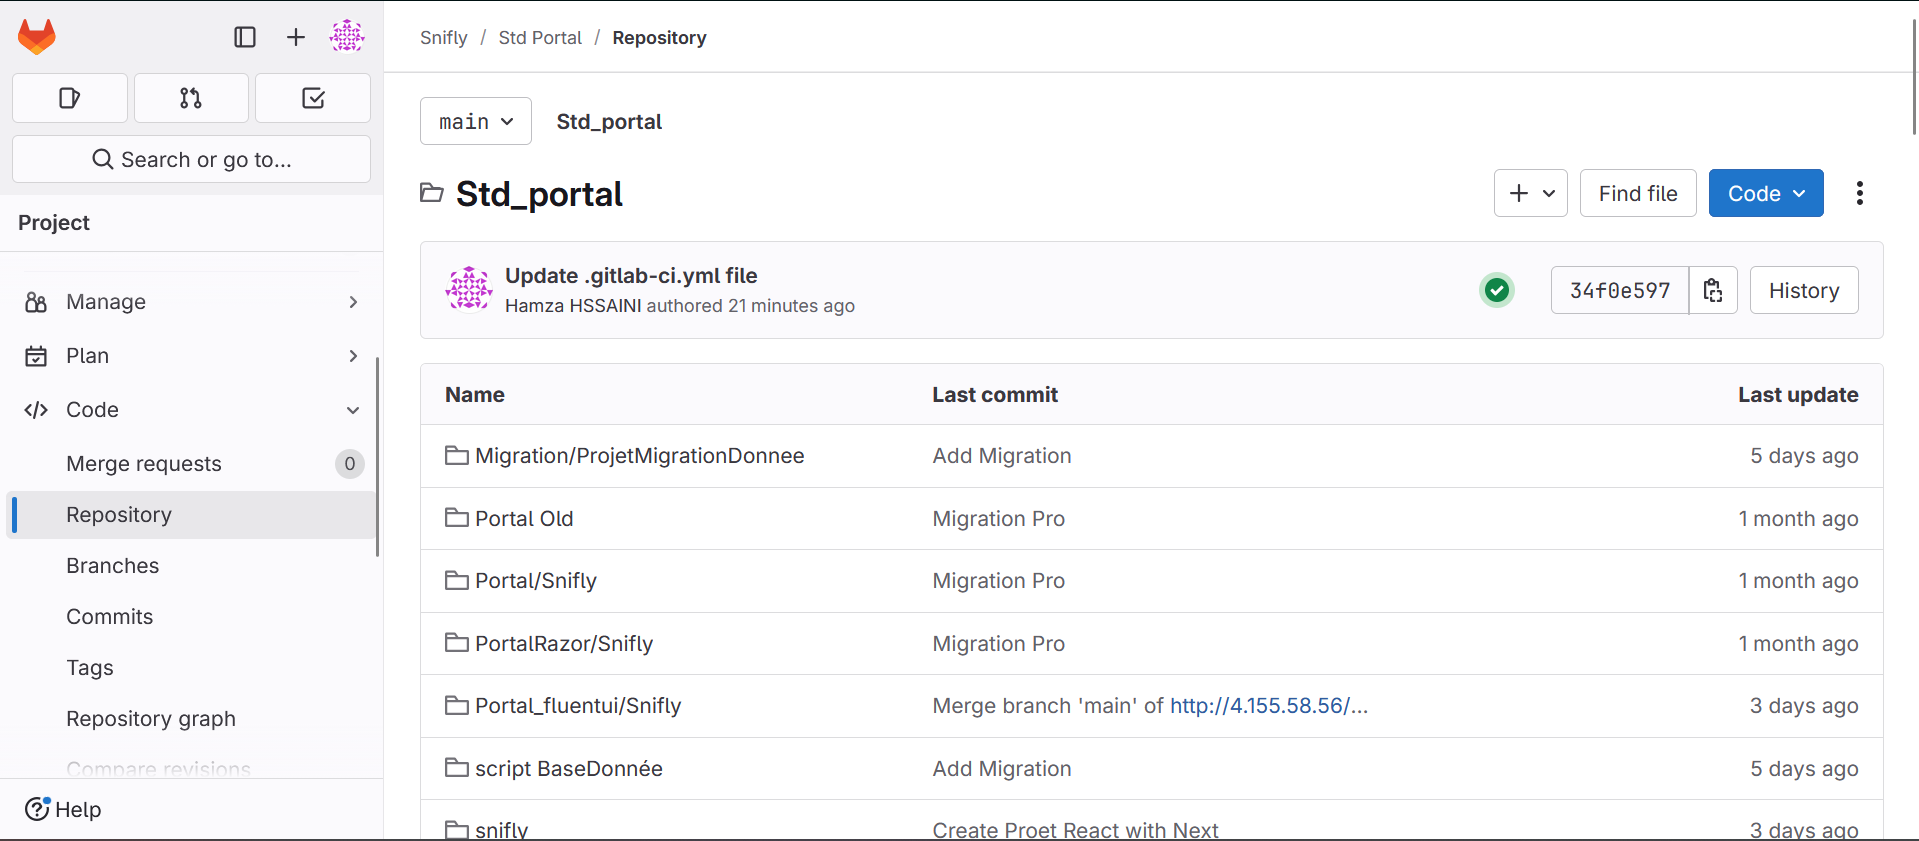
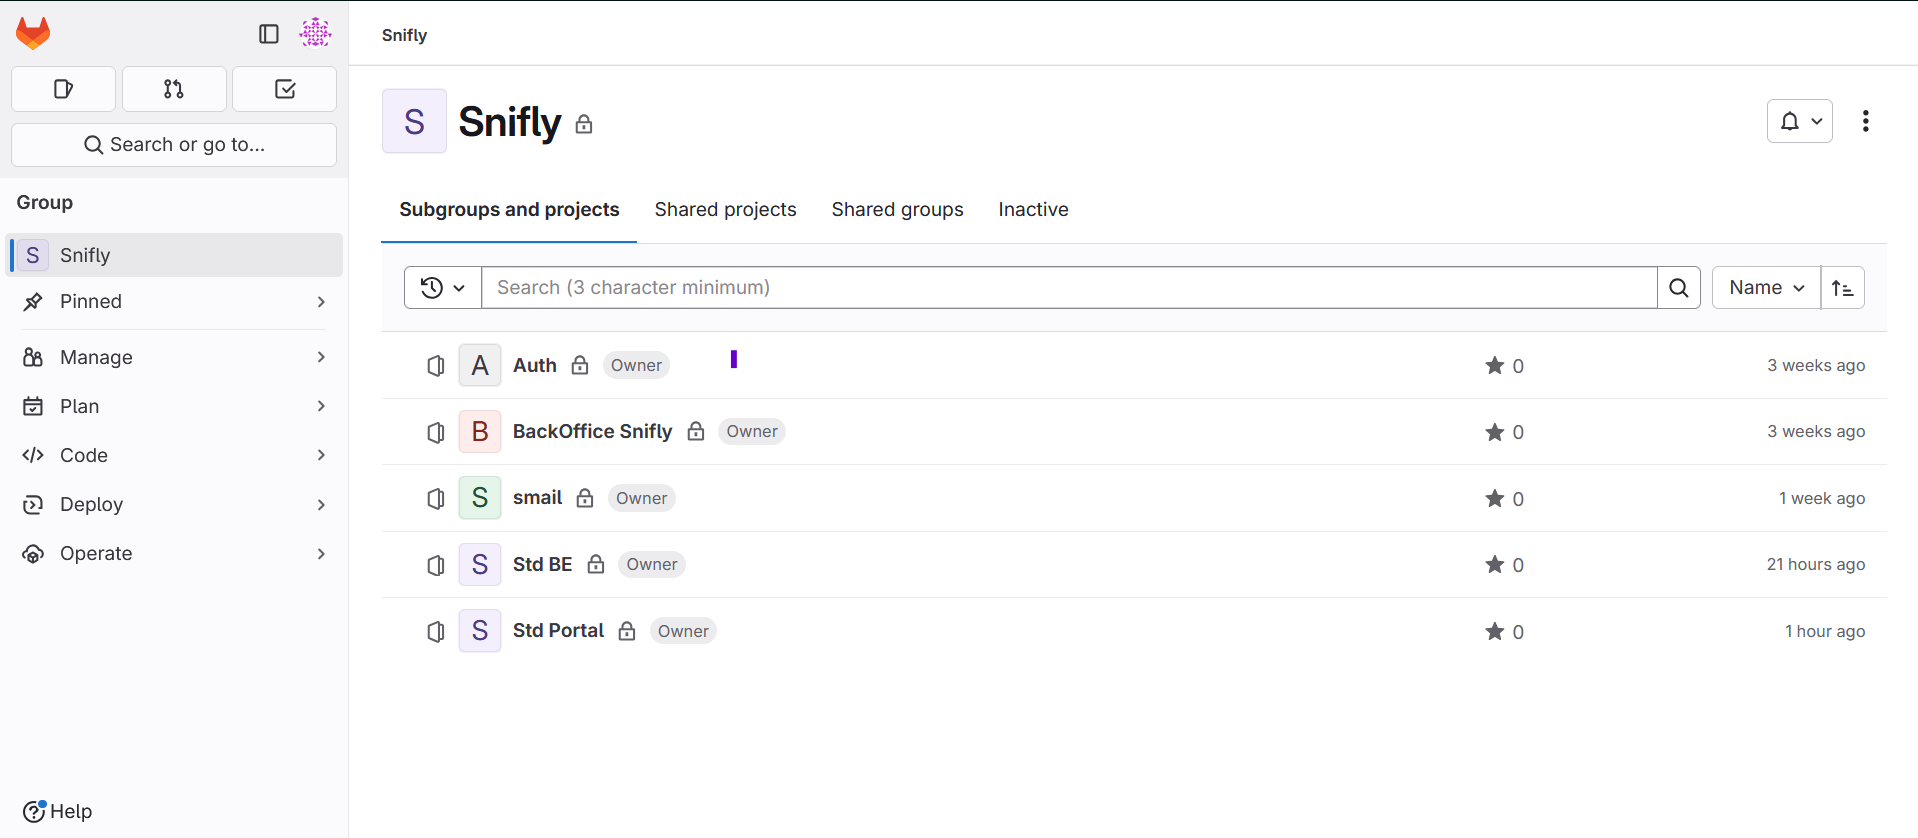
Fix same Features

diff --git a/public/index.html b/public/index.html
@@ -515,15 +515,15 @@
           <div class="rw-gallery" aria-label="Project screenshots">
             <figure class="rw-shot">
               <a class="rw-shot-link" href="/images/projects/mission-devops/01.png" aria-label="Open screenshot viewer"><img src="/images/projects/mission-devops/01.png" alt="Microservices CI/CD screenshot 1"></a>
-              <figcaption class="rw-cap" data-en="Streamlined the “Std_portal” repo with organized migrations/portals and a refreshed CI pipeline, ready for deployment." data-fr="Rationalisé le dépôt “Std_portal” avec des migrations/portails organisés et une CI actualisée, prête pour le déploiement.">Streamlined the “Std_portal” repo with organized migrations/portals and a refreshed CI pipeline, ready for deployment.</figcaption>
+              <figcaption class="rw-cap" data-en="GitLab group “Snifly” dashboard showing the list of projects (Auth, BackOffice, smail, Std BE, Std Portal)." data-fr="Tableau de bord du groupe GitLab “Snifly” affichant la liste des projets (Auth, BackOffice, smail, Std BE, Std Portal).">GitLab group “Snifly” dashboard showing the list of projects (Auth, BackOffice, smail, Std BE, Std Portal).</figcaption>
             </figure>
             <figure class="rw-shot">
               <a class="rw-shot-link" href="/images/projects/mission-devops/02.png" aria-label="Open screenshot viewer"><img src="/images/projects/mission-devops/02.png" alt="Microservices CI/CD screenshot 2"></a>
-              <figcaption class="rw-cap" data-en="Ran a three-stage GitLab CI (restore → build → deploy) on main, completing end-to-end in under 18 minutes." data-fr="Exécuté une CI GitLab en trois étapes (restore → build → deploy) sur main, terminée en moins de 18 minutes.">Ran a three-stage GitLab CI (restore → build → deploy) on main, completing end-to-end in under 18 minutes.</figcaption>
+              <figcaption class="rw-cap" data-en="GitLab CI/CD pipeline #241 (“Add Gps in customer”) marked Passed, showing the pipeline stages (.pre → build → test → publish → deploy)." data-fr="Pipeline CI/CD GitLab #241 (“Add Gps in customer”) marqué comme réussi, affichant les étapes du pipeline (.pre → build → test → publish → deploy).">GitLab CI/CD pipeline #241 (“Add Gps in customer”) marked Passed, showing the pipeline stages (.pre → build → test → publish → deploy).</figcaption>
             </figure>
             <figure class="rw-shot">
               <a class="rw-shot-link" href="/images/projects/mission-devops/03.png" aria-label="Open screenshot viewer"><img src="/images/projects/mission-devops/03.png" alt="Microservices CI/CD screenshot 3"></a>
-              <figcaption class="rw-cap" data-en="Kept all pipeline jobs (restore, build, deploy) green on main using .NET/Windows runners for repeatable releases." data-fr="Maintenu tous les jobs du pipeline (restore, build, deploy) au vert sur main avec des runners .NET/Windows pour des releases fiables.">Kept all pipeline jobs (restore, build, deploy) green on main using .NET/Windows runners for repeatable releases.</figcaption>
+              <figcaption class="rw-cap" data-en="GitLab pipeline #241 Jobs view listing each job status (passed) with stages (deploy, publish, test, build, pre) and execution times." data-fr="Vue des jobs du pipeline GitLab #241 listant le statut de chaque job (réussi) avec les étapes (deploy, publish, test, build, pre) et les temps d’exécution.">GitLab pipeline #241 Jobs view listing each job status (passed) with stages (deploy, publish, test, build, pre) and execution times.</figcaption>
             </figure>
             <figure class="rw-shot">
               <a class="rw-shot-link" href="/images/projects/mission-devops/04.png" aria-label="Open screenshot viewer"><img src="/images/projects/mission-devops/04.png" alt="Microservices CI/CD screenshot 4"></a>
@@ -812,8 +812,8 @@
               <text x="720" y="124" text-anchor="middle" fill="currentColor" font-size="13" font-weight="700">MongoDB</text>
               <text x="720" y="146" text-anchor="middle" fill="currentColor" font-size="12" opacity="0.85">PVC persistence</text>
 
-              <path d="M270 128H320" stroke="currentColor" stroke-width="2" />
-              <path d="M560 128H610" stroke="currentColor" stroke-width="2" />
+              <path d="M270 128H320" stroke="currentColor" stroke-width="2" opacity="0.9" />
+              <path d="M560 128H610" stroke="currentColor" stroke-width="2" opacity="0.9" />
               <polygon points="318,128 308,122 308,134" fill="currentColor" />
               <polygon points="608,128 598,122 598,134" fill="currentColor" />
             </svg>
@@ -1173,7 +1173,6 @@
   <!-- 
   Legacy Modals (Disabled in favor of React Widget)
   <div id="lightboxModal" ...
-  </div> 
   -->
 
 

diff --git a/public/dashboard.html b/public/dashboard.html
@@ -46,6 +46,8 @@
       </div>
     </header>
 
+    <div id="banner" class="card" style="margin-top:14px; padding:12px; display:none" role="status" aria-live="polite"></div>
+
     <div style="margin-top:18px;display:flex;gap:12px;align-items:center">
       <div class="card" style="padding:12px">Deployments: <strong id="total-deploy">--</strong></div>
       <div class="card" style="padding:12px">Avg lead: <strong id="avg-lead">--</strong></div>
@@ -84,6 +86,27 @@
   </div>
 
   <script>
+    const banner = document.getElementById('banner');
+    function showBanner(message) {
+      banner.textContent = message;
+      banner.style.display = 'block';
+    }
+
+    // API base resolution:
+    // - Default: same origin (works when served from the Node app)
+    // - If opened via file://, default to local server http://localhost:3000
+    // - Optional override: ?apiBase=http://localhost:3000
+    const params = new URLSearchParams(window.location.search);
+    const apiBaseParam = (params.get('apiBase') || params.get('api') || '').trim();
+    const API_BASE = (apiBaseParam
+      ? apiBaseParam.replace(/\/+$/, '')
+      : (window.location.protocol === 'file:' ? 'http://localhost:3000' : '')
+    );
+
+    if (window.location.protocol === 'file:') {
+      showBanner('This dashboard is opened as a local file. Start the server with: npm start, then open http://localhost:3000/dashboard.html (recommended).');
+    }
+
     function toHours(ms) { return ms == null ? null : +(ms / 3600000).toFixed(2); }
     function formatTime(iso, tz) {
       if (!iso) return '—';
@@ -122,9 +145,26 @@
       });
     }
 
-    async function fetchMetrics(days) { const q = days ? `?days=${days}` : ''; const r = await fetch('/api/metrics/github' + q); return r.json(); }
-    async function fetchSummary(days) { const q = days ? `?days=${days}` : ''; const r = await fetch('/api/summary' + q); return r.json(); }
-    async function fetchRuns(per_page = 50) { const r = await fetch(`/api/runs?per_page=${per_page}`); return r.json(); }
+    async function fetchJson(url) {
+      const r = await fetch(url);
+      if (!r.ok) {
+        const text = await r.text();
+        throw new Error(`HTTP ${r.status}: ${text || r.statusText}`);
+      }
+      return r.json();
+    }
+
+    async function fetchMetrics(days) {
+      const q = days ? `?days=${days}` : '';
+      return fetchJson(`${API_BASE}/api/metrics/github${q}`);
+    }
+    async function fetchSummary(days) {
+      const q = days ? `?days=${days}` : '';
+      return fetchJson(`${API_BASE}/api/summary${q}`);
+    }
+    async function fetchRuns(per_page = 50) {
+      return fetchJson(`${API_BASE}/api/runs?per_page=${per_page}`);
+    }
 
     function renderRunsTable(runs, tz) {
       const tbody = document.querySelector('#runs-table tbody');
@@ -162,6 +202,10 @@
         const meta = metrics.meta || {};
         const s = summary || {};
 
+        if (metrics.warning) {
+          showBanner(metrics.warning + ' (Set GITHUB_TOKEN in your .env and restart the server)');
+        }
+
         document.getElementById('meta-line').textContent = `Window: ${meta.window_days || s.window_days || days} days · Successes: ${meta.successes ?? s.successes ?? '--'} · Failures: ${meta.failures ?? s.failures ?? '--'} · Commits: ${meta.commits ?? '--'}`;
 
         document.getElementById('total-deploy').textContent = s.total_deployments ?? (meta.successes + meta.failures) ?? '--';
@@ -184,7 +228,7 @@
 
       } catch (err) {
         console.error('Dashboard load error', err);
-        alert('Failed to load dashboard: ' + (err.message || err));
+        showBanner('Failed to load dashboard. If you opened this file directly, run `npm start` and open http://localhost:3000/dashboard.html. Error: ' + (err.message || err));
       }
     }
 

diff --git a/public/assets/js/main.js b/public/assets/js/main.js
@@ -817,6 +817,90 @@ document.addEventListener('DOMContentLoaded', () => {
     }
   }
 
+  // Projects proof modals (Gallery / CI-CD / Architecture) are implemented as CSS :target.
+  // The close button currently points to #projects which causes an unwanted scroll jump.
+  // Fix: intercept close + Esc/backdrop and clear the hash via history.replaceState (no scroll).
+  function initRwTargetModals() {
+    try {
+      function getActiveRwModalFromHash() {
+        try {
+          const hash = String(window.location.hash || '');
+          if (!hash || hash.length < 2) return null;
+          const el = document.querySelector(hash);
+          if (!el || !(el instanceof Element)) return null;
+          if (!el.classList.contains('rw-modal')) return null;
+          return el;
+        } catch (e) {
+          return null;
+        }
+      }
+
+      function closeTargetModalKeepScroll() {
+        const y = window.scrollY || 0;
+        const x = window.scrollX || 0;
+
+        const activeModal = getActiveRwModalFromHash();
+        if (!activeModal) return;
+
+        try {
+          // 1) Change the hash so CSS :target updates and the modal closes.
+          // Use a non-existent id to avoid scrolling.
+          window.location.hash = 'rw-closed';
+        } catch (e) { /* ignore */ }
+
+        try {
+          // 2) Remove the hash from the URL (optional, keeps URL clean).
+          const base = String(window.location.href || '').split('#')[0];
+          if (window.history && typeof window.history.replaceState === 'function') {
+            window.history.replaceState(null, '', base);
+          }
+        } catch (e) { /* ignore */ }
+
+        // Extra safety: restore scroll position in case the browser tries to jump.
+        try {
+          window.requestAnimationFrame(() => {
+            try { window.scrollTo(x, y); } catch (e) { }
+          });
+        } catch (e) { }
+      }
+
+      document.addEventListener('click', (ev) => {
+        const rawTarget = ev.target;
+        const target = (rawTarget instanceof Element)
+          ? rawTarget
+          : (rawTarget && rawTarget.parentElement ? rawTarget.parentElement : null);
+        if (!target) return;
+
+        // Close button (X)
+        const closeLink = target.closest('a.rw-modal-close');
+        if (closeLink) {
+          ev.preventDefault();
+          closeTargetModalKeepScroll();
+          return;
+        }
+
+        // Backdrop click (click outside the modal surface)
+        const modal = target.closest('.rw-modal');
+        if (!modal) return;
+        if (typeof modal.matches === 'function' && !modal.matches(':target')) return;
+
+        const surface = modal.querySelector('.rw-modal-surface');
+        if (surface && surface.contains(target)) return;
+        ev.preventDefault();
+        closeTargetModalKeepScroll();
+      });
+
+      document.addEventListener('keydown', (ev) => {
+        if (ev.key !== 'Escape') return;
+        if (!getActiveRwModalFromHash()) return;
+        ev.preventDefault();
+        closeTargetModalKeepScroll();
+      });
+    } catch (e) {
+      // silent
+    }
+  }
+
   function createControls() {
     try { console.log('createControls: initializing'); } catch (e) { }
     if (document.getElementById('controlsRoot')) return;
@@ -1701,5 +1785,8 @@ document.addEventListener('DOMContentLoaded', () => {
 
   // Enable in-page screenshot viewer for Projects galleries.
   initRwGalleryViewer();
+
+  // Prevent "close" from scrolling to #projects.
+  initRwTargetModals();
 
 });

diff --git a/app.js b/app.js
@@ -38,6 +38,16 @@ app.use(morgan('dev'));
 app.use(express.json());
 app.use(express.urlencoded({ extended: true }));
 
+// CORS for API (helps when opening dashboard.html from file:// or another origin)
+app.use('/api', (req, res, next) => {
+  res.setHeader('Access-Control-Allow-Origin', '*');
+  res.setHeader('Access-Control-Allow-Methods', 'GET,POST,OPTIONS');
+  res.setHeader('Access-Control-Allow-Headers', 'Content-Type, Authorization');
+  res.setHeader('Access-Control-Max-Age', '600');
+  if (req.method === 'OPTIONS') return res.sendStatus(204);
+  next();
+});
+
 // In-memory stores (simple demo)
 const users = [];
 const deployments = [];
@@ -157,7 +167,10 @@ async function gh(path, params = {}) {
   });
   if (!res.ok) {
     const text = await res.text();
-    throw new Error(`GitHub API ${res.status}: ${text}`);
+    const err = new Error(`GitHub API ${res.status}: ${text}`);
+    err.status = res.status;
+    err.responseText = text;
+    throw err;
   }
   return res.json();
 }
@@ -208,7 +221,20 @@ async function computeGithubMetrics({ days = WINDOW_DAYS } = {}) {
   const since = new Date(now - days * 24 * 60 * 60 * 1000).toISOString();
   const until = new Date(now).toISOString();
 
-  const [runsResp, commits] = await Promise.all([getWorkflowRunsPage(100), getCommits(since, until)]);
+  let runsResp;
+  let commits;
+  try {
+    [runsResp, commits] = await Promise.all([getWorkflowRunsPage(100), getCommits(since, until)]);
+  } catch (e) {
+    if (e && (e.status === 401 || e.status === 403)) {
+      return {
+        daily: {},
+        meta: { successes: 0, failures: 0, commits: 0, window_days: days, total_deployments: 0, lead_times_ms_all: [], mttr_ms_all: [] },
+        warning: 'GITHUB_TOKEN is invalid or lacks permissions; GitHub-backed metrics are disabled',
+      };
+    }
+    throw e;
+  }
   const runsAll = (runsResp.workflow_runs || []);
   const sinceDate = new Date(since);
   const allRuns = runsAll.filter(r => {
@@ -319,6 +345,9 @@ app.get('/api/runs', async (req, res) => {
     res.json({ runs });
   } catch (e) {
     console.error('GET /api/runs error:', e && (e.stack || e.message || e));
+    if (e && (e.status === 401 || e.status === 403)) {
+      return res.json({ runs: [], warning: 'GITHUB_TOKEN is invalid or lacks permissions; runs are unavailable' });
+    }
     res.status(500).json({ error: e.message || 'Failed to fetch runs' });
   }
 });
@@ -359,6 +388,7 @@ app.get('/api/summary', async (req, res) => {
       median_mttr_hours: medianMttr !== null ? Number(medianMttr.toFixed(2)) : null,
       p95_mttr_hours: p95Mttr !== null ? Number(p95Mttr.toFixed(2)) : null,
       contributors_count,
+      ...(data.warning ? { warning: data.warning } : {}),
     });
   } catch (e) {
     console.error('GET /api/summary error:', e && (e.stack || e.message || e));
@@ -378,6 +408,13 @@ app.get('/api/metrics/github', async (req, res) => {
     return res.json(data);
   } catch (err) {
     console.error('GET /api/metrics/github error', err && (err.stack || err.message || err));
+    if (err && (err.status === 401 || err.status === 403)) {
+      return res.json({
+        daily: {},
+        meta: { successes: 0, failures: 0, commits: 0, window_days: Number(req.query.days || WINDOW_DAYS), total_deployments: 0, lead_times_ms_all: [], mttr_ms_all: [] },
+        warning: 'GITHUB_TOKEN is invalid or lacks permissions; GitHub-backed metrics are disabled',
+      });
+    }
     res.status(500).json({ error: err.message || 'Failed to compute GitHub metrics' });
   }
 });
